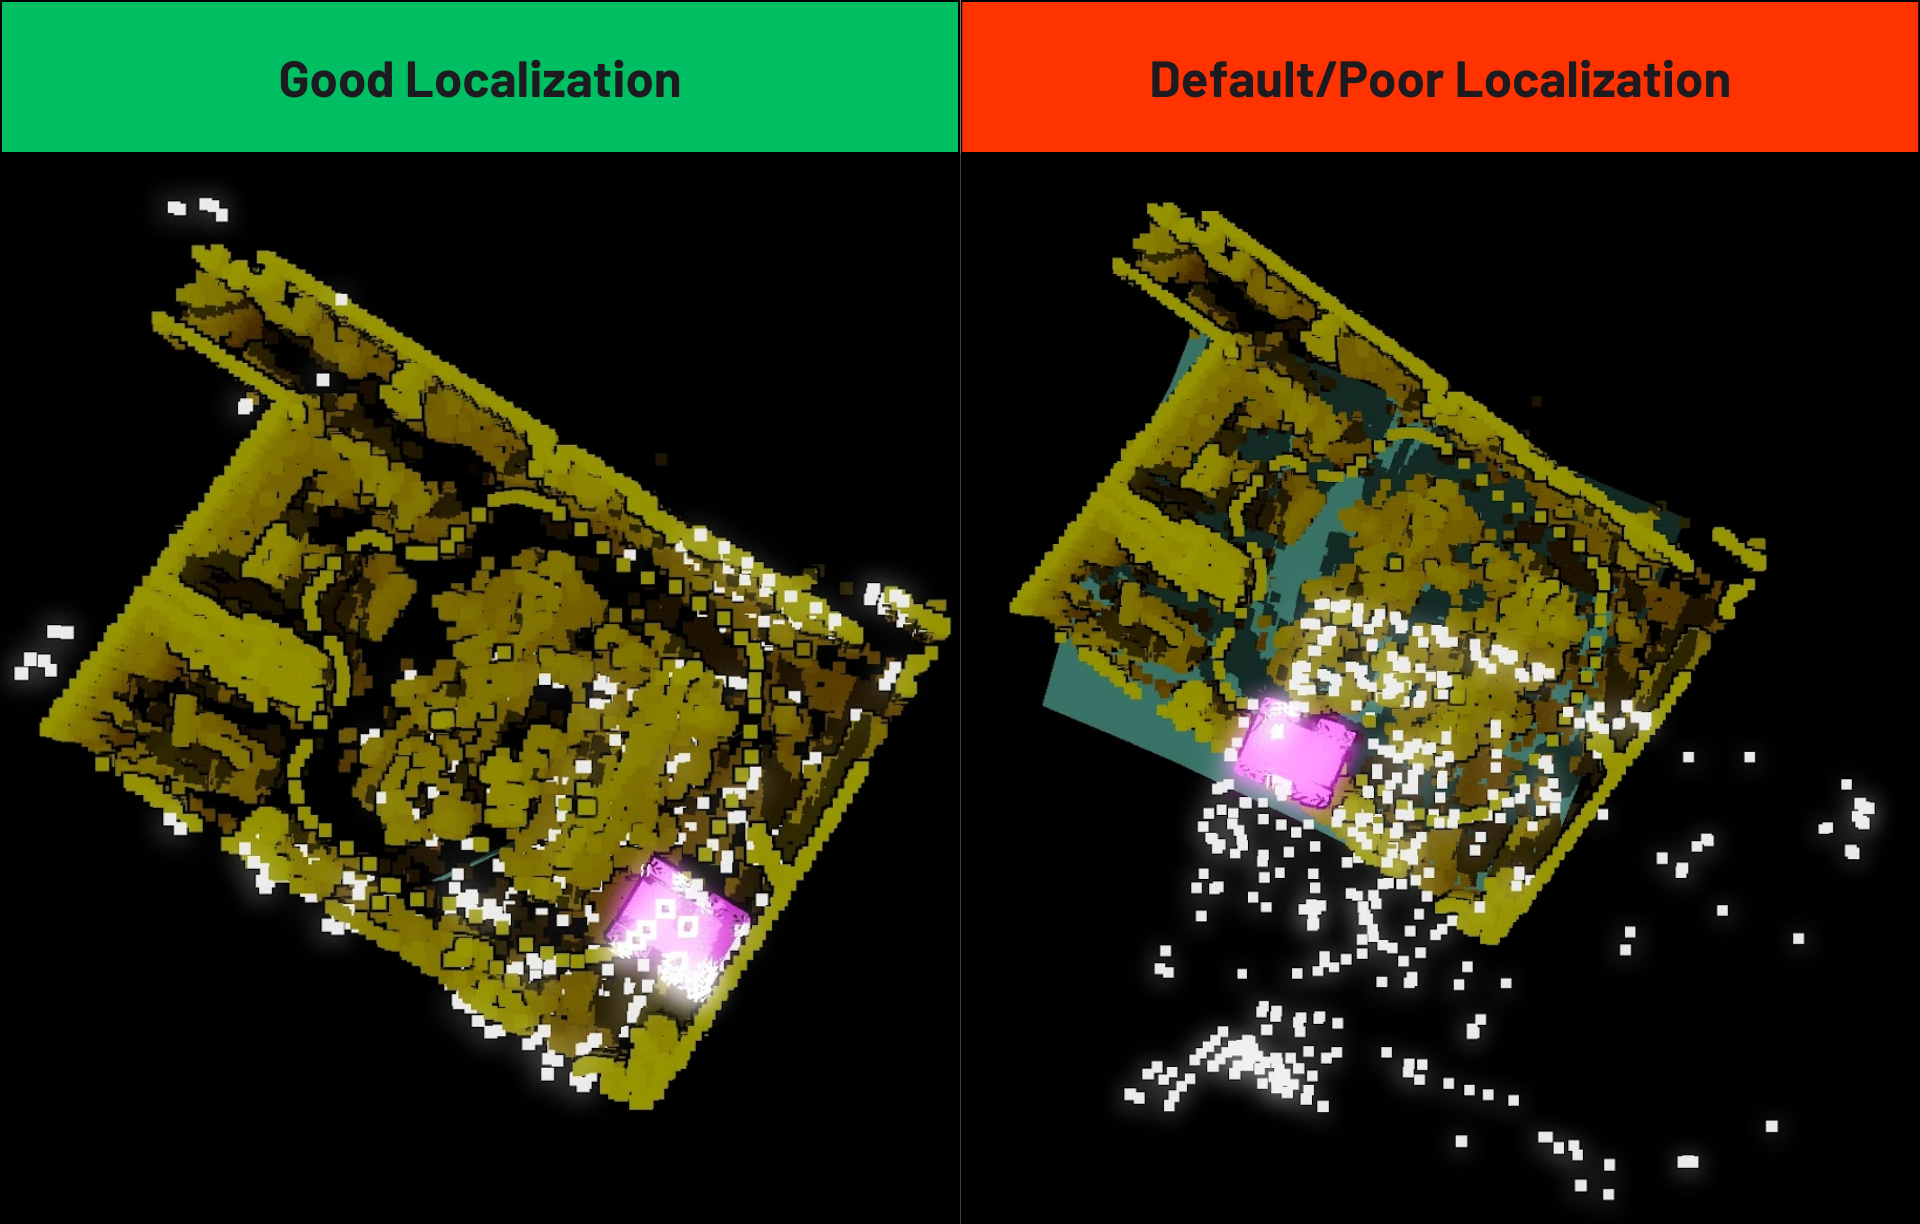
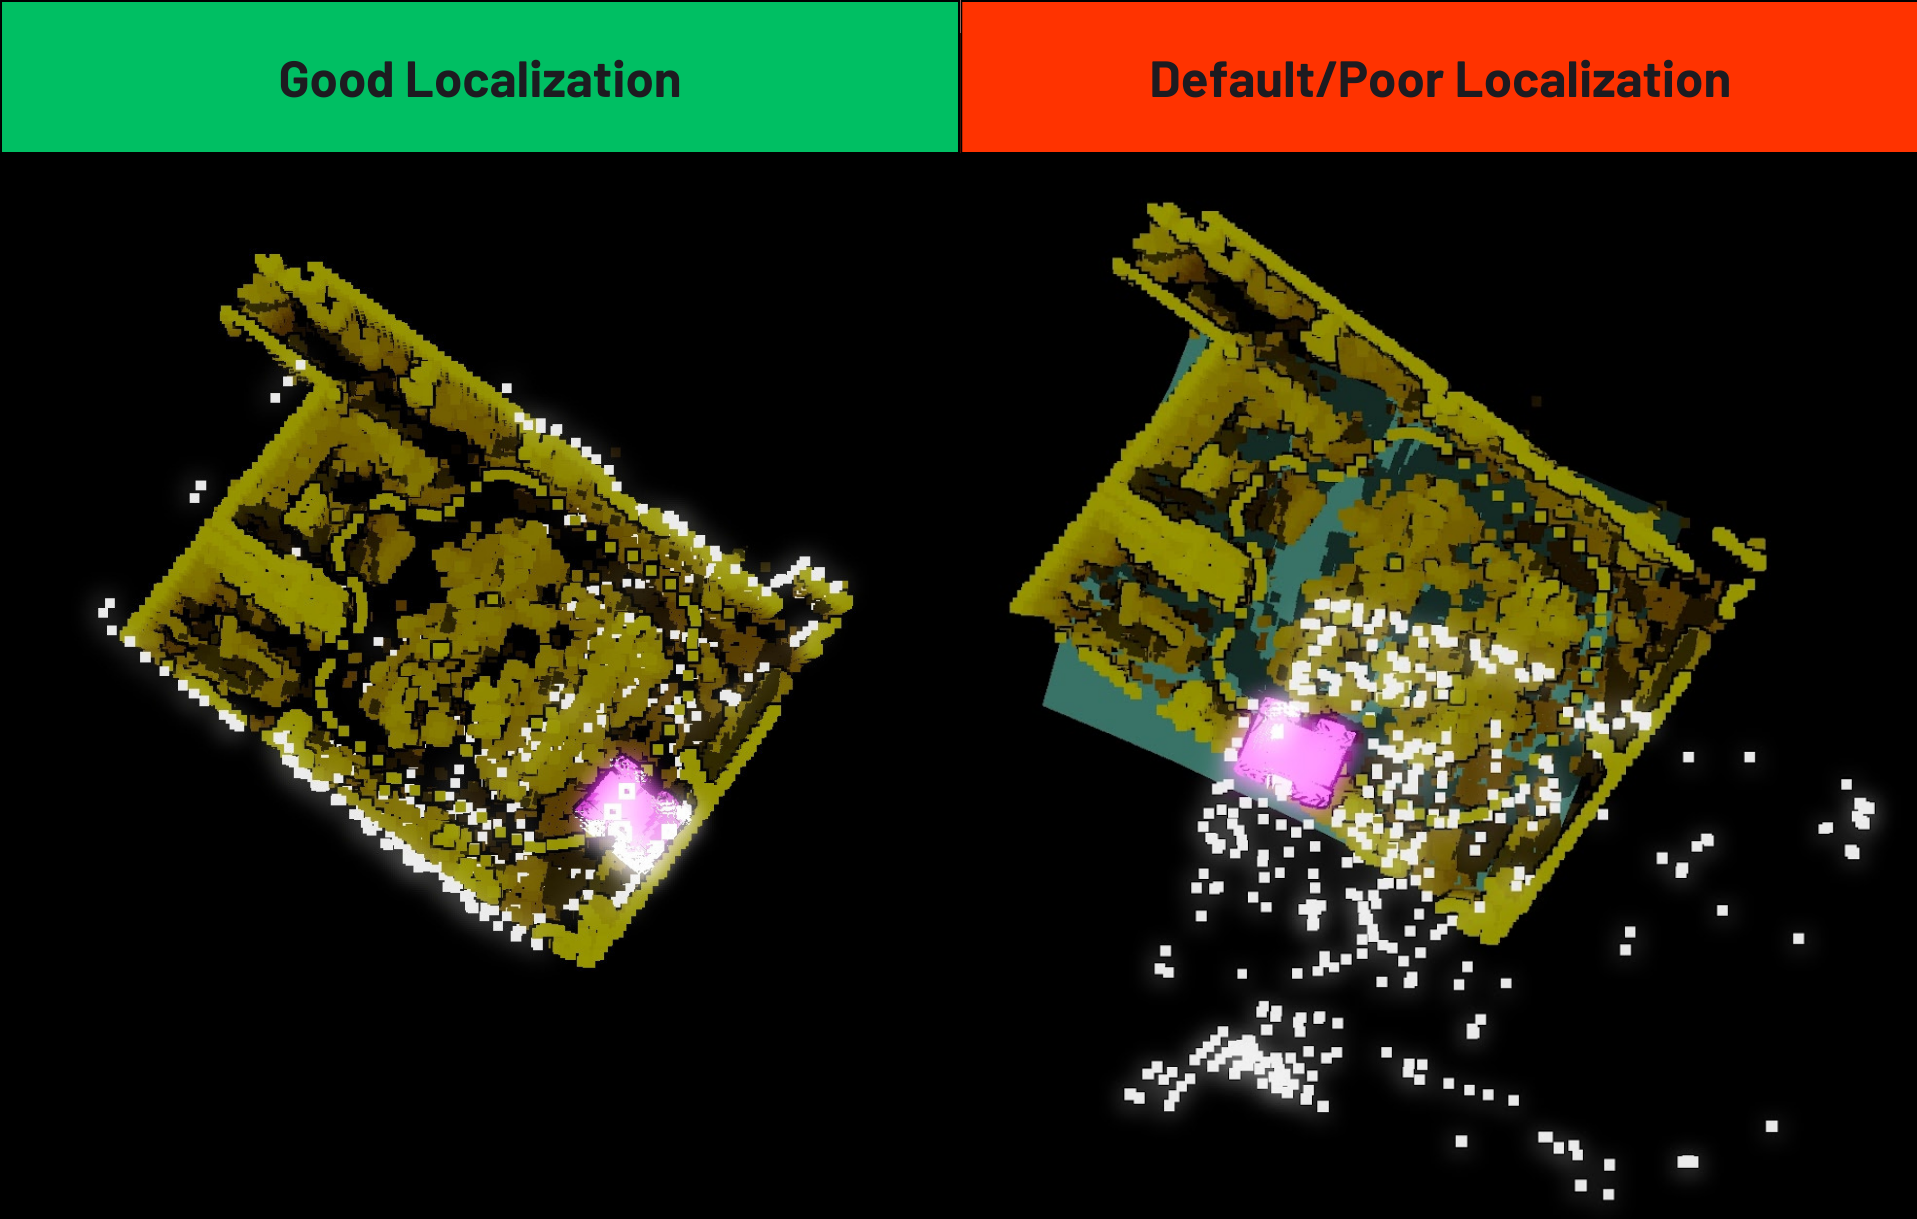
added gifs

diff --git a/docs/dash-nav/nav-guide.md b/docs/dash-nav/nav-guide.md
@@ -159,9 +159,17 @@ To see your robot's camera view, select or toggle the camera options here. This 
 Before we move on to the functionalities in the planning and ready tabs,  we will need to localize our robot. 
 
 Localizing would ensure that our robot knows its exact location in real life and a good localization would ensure that we know where our robot is without actually looking at it in real life. 
-<img src="img/localization.png" style="width: 600px; margin-top: 10px;"/>
 
-Good localization is where the robots visualization (white points) lines up with the map. 
+| Instructions |
+| ------- | 
+| <div class="instructions-div"><div class="instruction-circle">1</div><p style="margin: 0; margin-left: 5px;">On the right side of the application, press the Localize button.</p></div><fonst size="3"><img src="img/localize-button.png" style="margin-top: 10px; width: 300px;"/><br><font size='2'>Ensure that you are on the ready tab. Here, you can also find your robot status and see information like the battery, localization and stance.|
+| <div class="instructions-div"><div class="instruction-circle">2</div><p style="margin: 0; margin-left: 5px;">Localize the robot based on its actual position in real life from the map.</p></div><font size="3"><font size="2"> Press on the point of the map where the robot is located and drag it to the direction it is facing. Then, use the directional arrows to adjust it to fit the map.<img src="img/localize-demo.gif" style="margin-top: 10px;"> Alternatively, you can use the rotation button to adjust and improve your localizations. <img src="img/localize_rotation.gif" style="margin-top: 10px;"/>|
+
+Some good robot localization examples are shown below.
+
+<img src="img\localization.png" style="width: 600px; margin-top: 10px;"/>
+
+Good localization is where the robots LIDAR visualization (white points) lines up with the map. 
 
 `Make another example image as this image is not clear`
 
@@ -213,6 +221,7 @@ Give your new route a name, use a name that is descriptive.<br>
 </div>
 
 ### 4.3.1.1.3 Generating BLK scan points 
+Here is where we select the points in our map to apply a BLK scan.
 <img src="img/generate-scan-points-slider.jpg" style="width: 300px;" />
 
 `Select points for scan image/gif`<br>
